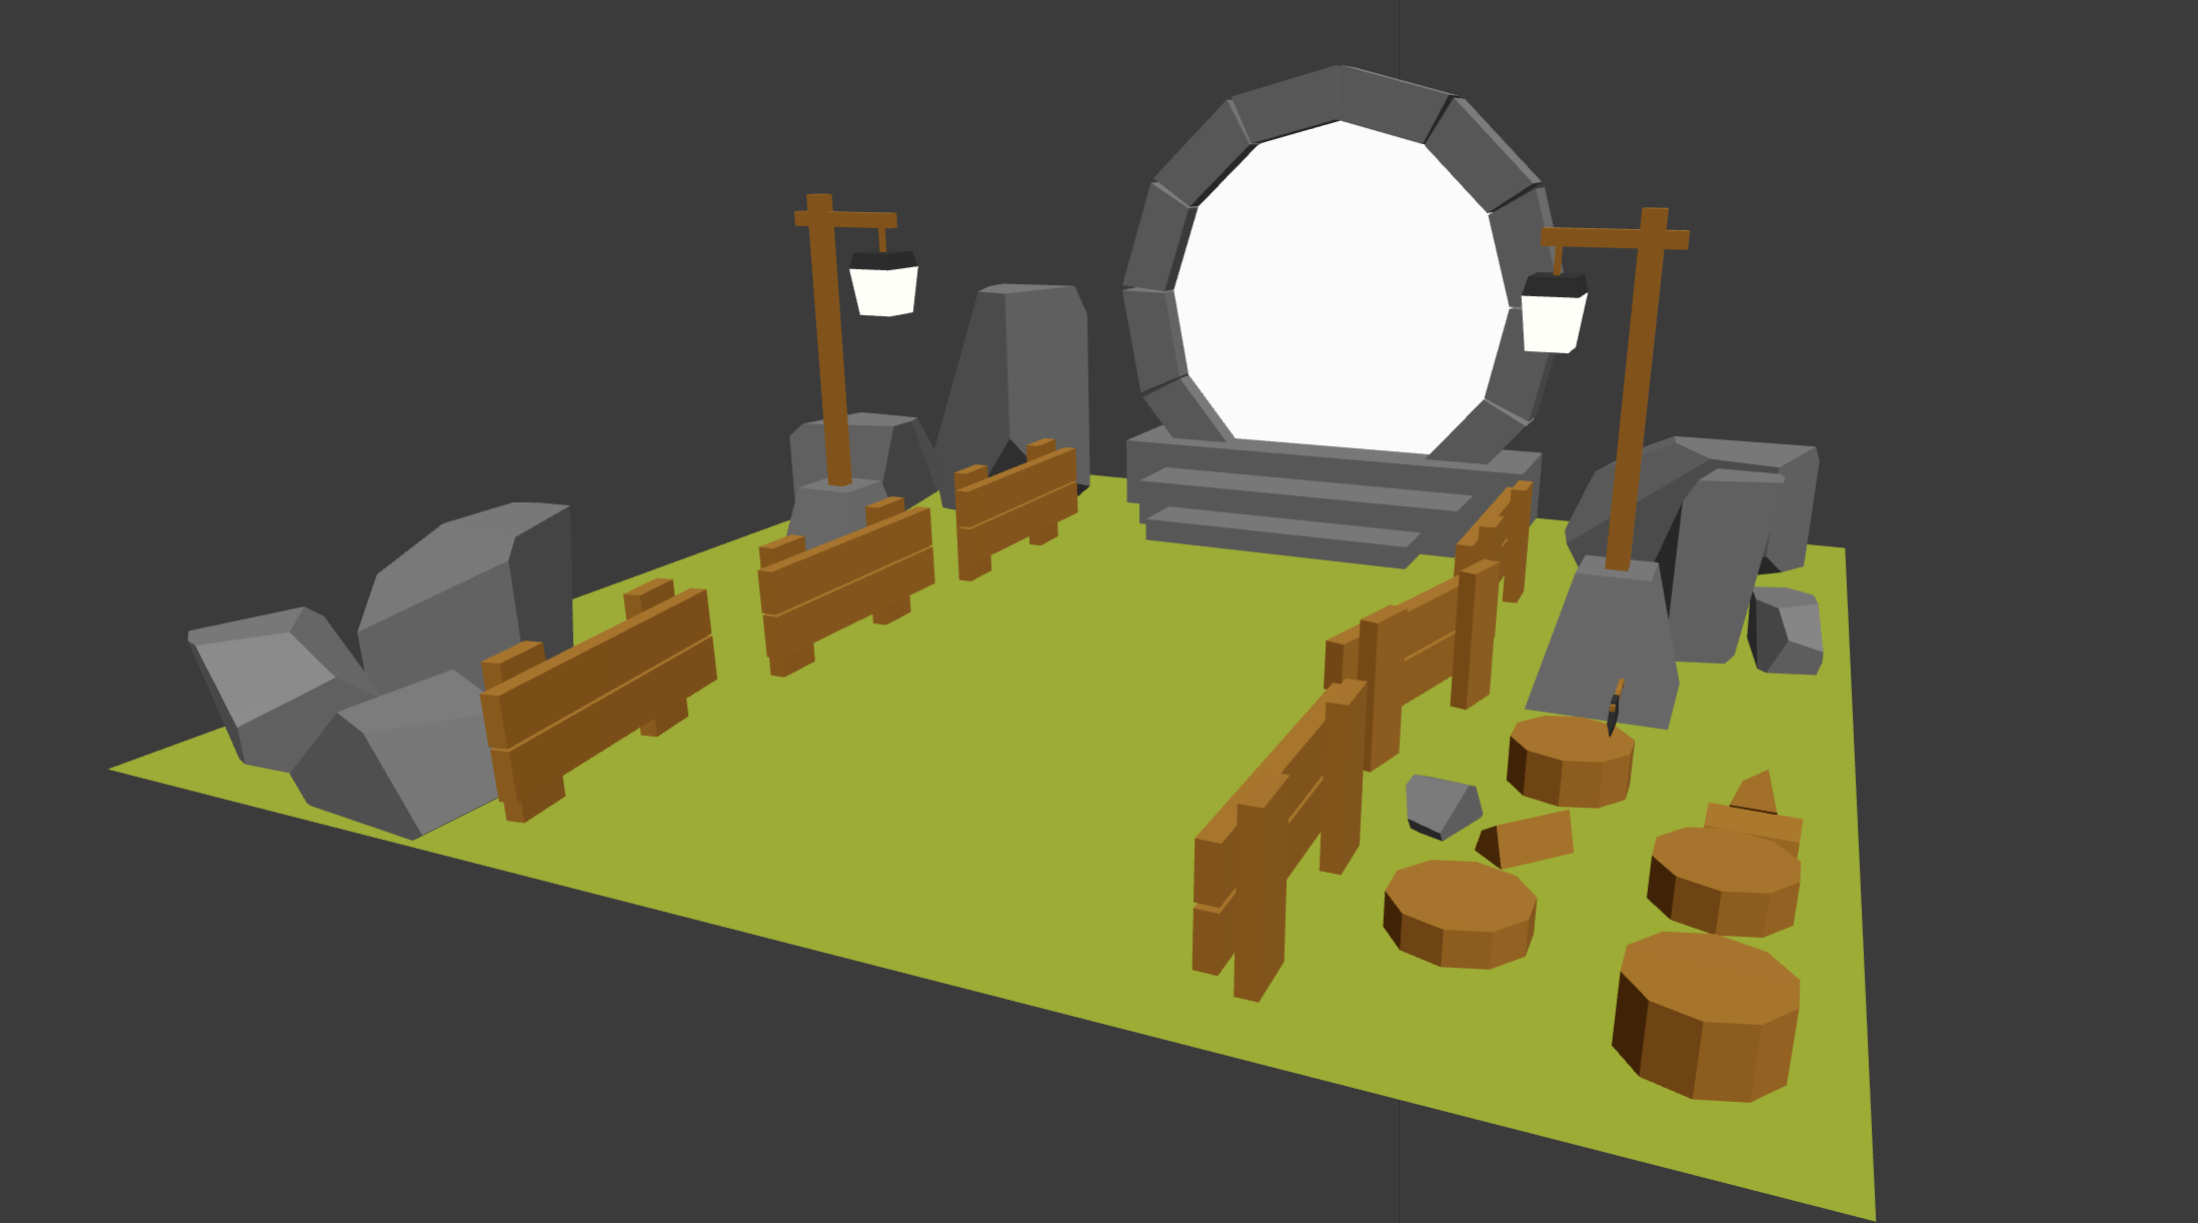
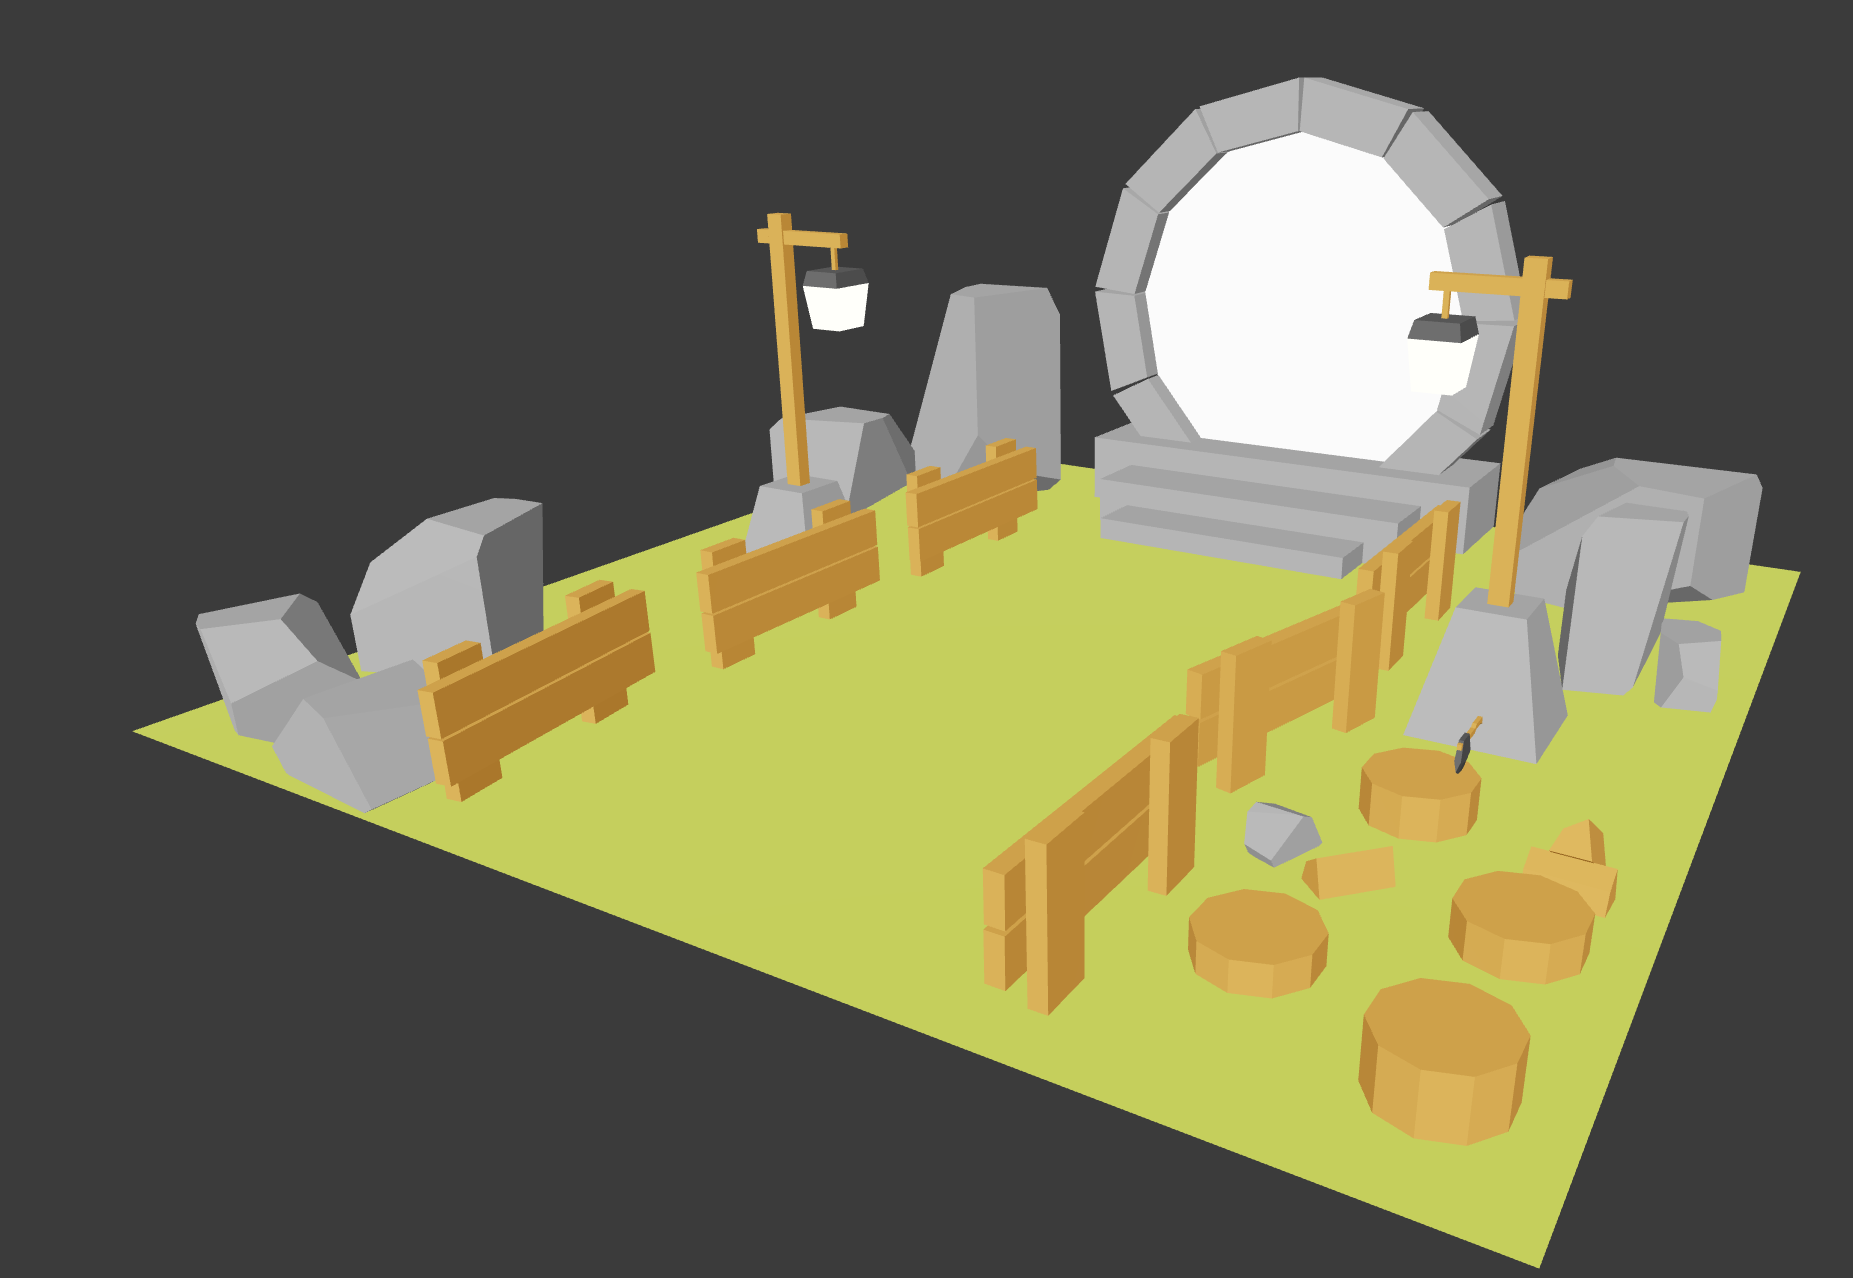
update

diff --git a/src/pages/blender.tsx b/src/pages/blender.tsx
@@ -28,7 +28,8 @@ import {CenterOn, zyx_axis, InteractionMode, Day1_001, new_window, Delete, NewOb
   jap_example,
   paper_example,
   plane_example,
-  example_snapshot
+  example_snapshot,
+  draco_compression
  } from "../constants"
 import PopupText from "../components/popupText/popupText";
 
@@ -600,10 +601,22 @@ function Blender() {
         <h2>013 - ThreeJS Implimentation and Why We Got What We Got</h2>
         <small><a href={Day1_013} download="Day1_013.blend">Blender model complete</a></small>
 
+
+        <div className="content_container_divide">
+        <p>
+          To download your file for ThreeJS, go to File → Export → glTF 2.0 (.glb/.gltf). We do have the option to enable Draco compression (Data → Compression). Given anything we make will 
+          be low-poly, enabling Draco compression makes sense. You will see little to no difference between the normal and compressed model. Compression is worthwhile because 
+          we are rendering this on a webpage, and file size is relevant for loading times. Especially when the difference in quality in our use case non-existant given the inherent simplicity of our model(s). 
+          Draco compression can be done by ThreeJS code as well, but it makes better sense to just do it on Blender download than having to do the setup work for compression by code.
+        </p>
+          <img src={draco_compression}/>
+        </div>
+
         <p>
           The render looks solid on blender. But we are not rendering it on blender, rather it's being done by the browser real-time. The ThreeJS side of things will 
-          be looked into next lesson. But lets skip ahead and see what the render looks like. To download your file for ThreeJS, go to File → Export → glTF 2.0 (.glb/.gltf).
+          be looked into next lesson. But lets skip ahead and see what the render looks like.
         </p>
+
 
         <div className="media_item_container">
           <img src={mesh_basic_model_render}/>
@@ -647,7 +660,7 @@ function Blender() {
         </div>
         <p>
           Better, but not good. There is some gradience in our objects thanks to the light source. One thing to note is that even though we added a light source, 
-          there are no shadows. Unlike Blender, ThreeJS does not automatically render shadows. Adding shadows in ThreeJS is a separate and manual process. So to 
+          there are no shadows. Unlike Blender, ThreeJS does not automatically render shadows. Adding shadows in ThreeJS is a separate and manual process. You can add either static or dynamic shadows. So to 
           summarize: importing a model does not pass on any lighting, or shadows. You can render your object in <span className="threejs_material_basic">meshBasic</span> which does not require any light, or 
           render it in <span className="threejs_material_standard">meshStandard</span> (or a equivalent material that requires light) which does in order to see it. But adding shadows is a manual process. Overall, the quality will 
           not match what it is in Blender because ThreeJS needs to render it in realtime. Recall early on how we changed the <PopupText keybindingText={<span>Rendering Mode</span>} keybindingImgVideo={<img src={RendererMode}/>} meshOrMenu={false} placerText={"rendering mode"}/> to Cycles instead of EEVEE for superior rendering quality in Blender (003)?. EEVEE is in fact closer to 
@@ -716,7 +729,7 @@ function Blender() {
 
 
         <p>
-          It's at this point that I bring up the 'p' word in ThreeJS: performance. Two biggest hits in performance come from lights and shadows. As a result <span className="threejs_material_basic">meshBasic</span> is 
+          It's at this point that I bring up the 'p' word in ThreeJS: performance. Two biggest hits in performance come from lights and shadows(more so dynamic). As a result <span className="threejs_material_basic">meshBasic</span> is 
           the most performant on the basis that it neither needs nor can make use of either. To be clear, the extent to which it is used is a factor as well. It would be 
           in our best interest to have whatever we are making be <b>either <span className="threejs_material_basic">meshBasic</span>, or use a material that requires light but make the voluntary choice to not have any shadows</b>. <span className="threejs_material_basic">MeshBasic</span> paired with baking is 
           also very performant, but as I said, it is both difficult and time consuming to create a texture map in Blender for a model.

diff --git a/src/constants.tsx b/src/constants.tsx
@@ -211,6 +211,7 @@ export const changing_orient = changingorient;
 
 // day 1 013
 import day1013Blend from './assets/Days/1/Day1_013.blend';
+import draccomp from './assets/Days/1/draco_compression.png'
 import meshbasicrend from './assets/Days/1/meshbbasic_scene.png';
 import meshstandrend from './assets/Days/1/meshstandard_scene.png';
 import yum from './assets/Days/1/yume_example.png';
@@ -220,6 +221,7 @@ import paperex from './assets/Days/1/paper_example.png';
 import examplesnap from './assets/Days/1/example_snapshot.jpg';
 
 export const Day1_013 = day1013Blend;
+export const draco_compression = draccomp;
 export const mesh_basic_model_render = meshbasicrend;
 export const mesh_standard_model_render = meshstandrend;
 export const yumi_example = yum;
